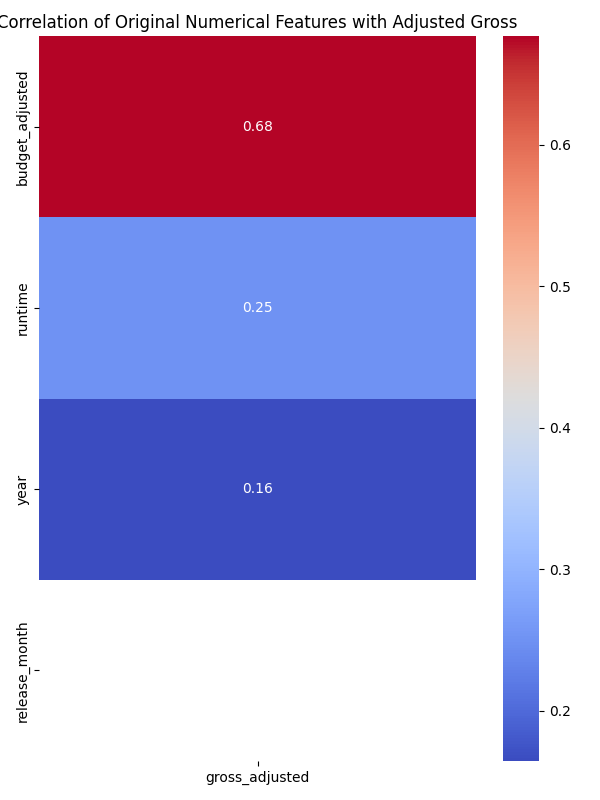
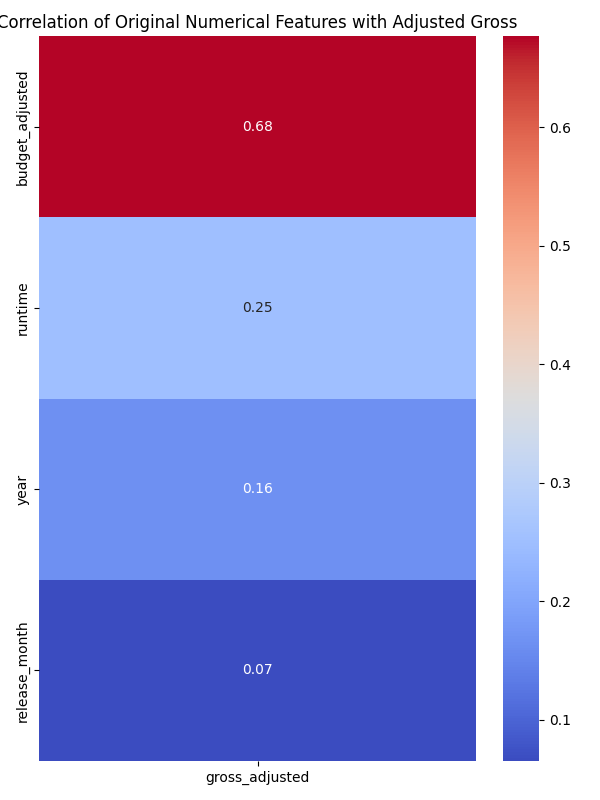
Fixed months issue

diff --git a/feature_engineering/feature_engineering.py b/feature_engineering/feature_engineering.py
@@ -11,8 +11,10 @@ data = pd.read_csv('data/movies_adjusted.csv')
 # Ensure we only work with adjusted monetary values and drop non-predictive columns
 data = data.drop(columns=['gross', 'budget', 'name', 'score', 'votes'], errors='ignore')
 
-# Extract `release_month` from the `released` column
-data['released'] = pd.to_datetime(data['released'], errors='coerce')
+# Extract date only from 'released' and parse it
+data['released'] = data['released'].str.extract(r'(\w+ \d{1,2}, \d{4})')[0]
+data['released'] = pd.to_datetime(data['released'], format='%B %d, %Y', errors='coerce')
+data['release_year'] = data['released'].dt.year
 data['release_month'] = data['released'].dt.month
 
 # Set paths and target variable
@@ -65,7 +67,7 @@ for (feature1, feature2) in combinations(numerical_features, 2):
         data[ratio_feature_name] = data[feature1] / data[feature2]
         correlation = data[[target, ratio_feature_name]].corr().iloc[0, 1]
         all_features.append((ratio_feature_name, correlation))
-        if abs(correlation) > 0.60:
+        if abs(correlation) > 0.65:
             suggested_features.append((ratio_feature_name, correlation))
         data.drop(columns=[ratio_feature_name], inplace=True)
 
@@ -74,7 +76,7 @@ for (feature1, feature2) in combinations(numerical_features, 2):
     data[interaction_feature_name] = data[feature1] * data[feature2]
     correlation = data[[target, interaction_feature_name]].corr().iloc[0, 1]
     all_features.append((interaction_feature_name, correlation))
-    if abs(correlation) > 0.60:
+    if abs(correlation) > 0.65:
         suggested_features.append((interaction_feature_name, correlation))
     data.drop(columns=[interaction_feature_name], inplace=True)
 
@@ -111,13 +113,13 @@ with open(suggestions_file, 'w') as file:
     for feature, corr in sorted(all_features, key=lambda x: abs(x[1]), reverse=True):
         file.write(f"- {feature}: correlation with {target} = {corr:.2f}\n")
     
-    file.write("\nSuggested Features for Prediction (correlation > 0.60):\n")
+    file.write("\nSuggested Features for Prediction (correlation > 0.65):\n")
     for feature, corr in sorted(suggested_features, key=lambda x: abs(x[1]), reverse=True):
         file.write(f"- {feature}: correlation with {target} = {corr:.2f}\n")
     
-    file.write("\nSuggested Mean Aggregations for Categorical Variables (correlation > 0.60):\n")
+    file.write("\nSuggested Mean Aggregations for Categorical Variables (correlation > 0.65):\n")
     for feature, corr in sorted(mean_aggregates.items(), key=lambda x: abs(x[1]), reverse=True):
-        if abs(corr) > 0.60:
+        if abs(corr) > 0.65:
             file.write(f"- {feature}: correlation with {target} = {corr:.2f}\n")
 
 print(f"All correlations and suggestions saved to {suggestions_file}")
